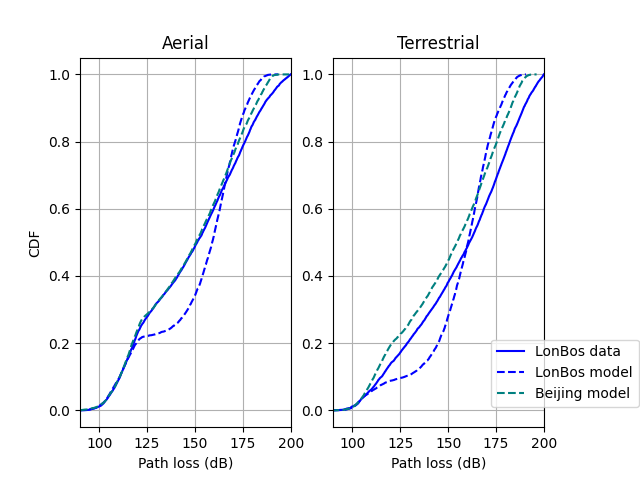
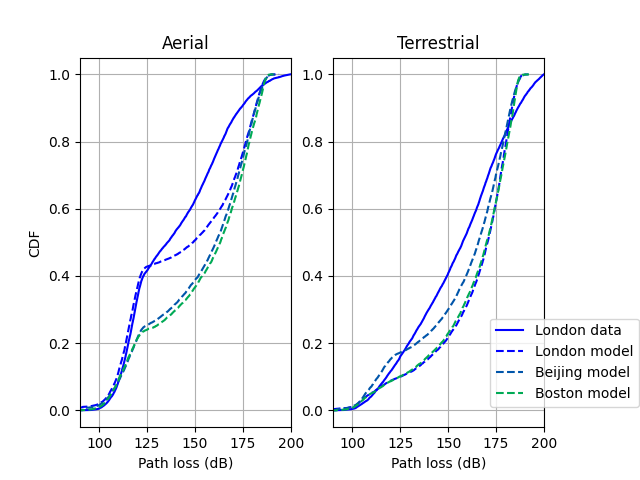
update plots

diff --git a/projects/uav_nn/plot_path_loss_cdf.py b/projects/uav_nn/plot_path_loss_cdf.py
@@ -41,7 +41,7 @@ Parse arguments from command line
 parser = argparse.ArgumentParser(description='Plots the omni directional path loss CDF')
 parser.add_argument(\
     '--plot_dir',action='store',\
-    default='plots', help='directory for the output plots')    
+    default='../../plots', help='directory for the output plots')    
 parser.add_argument(\
     '--plot_fn',action='store',\
     default='pl_cdf.png', help='plot file name')        
@@ -71,22 +71,23 @@ model_city_dict  = {\
     'Beijing': ('uav_beijing', None), # OK\
     'Boston': ('uav_boston', None),  # Good\    
     'Moscow': ('uav_moscow', None),  # Good\
-    'LonBos': ('uav_lon_bos', None)
+    'LonBos': ('uav_lon_bos', None),
+    'London': ('uav_london', None)
 }
-    
-    
+
 # Dictionaries looking up the dataset for each city  
 ds_city_dict = {\
     'LonTok': 'uav_lon_tok',\
     'Beijing': 'uav_beijing',\
     'Boston':  'uav_boston',\
     'Moscow':  'uav_moscow',\
-    'LonBos': 'uav_lon_bos'
-}   
-    
+    'LonBos': 'uav_lon_bos',\
+    'London': 'uav_london'
+}
+
 use_true_ls = False
-    
-     
+
+
 """
 Find the path loss CDFs
 """
@@ -96,7 +97,7 @@ leg_str = []
 
 ntest = len(city_test)
 for i, city in enumerate(city_test):
-    
+
     if (i == 0):
         """
         For first city, use the city data
